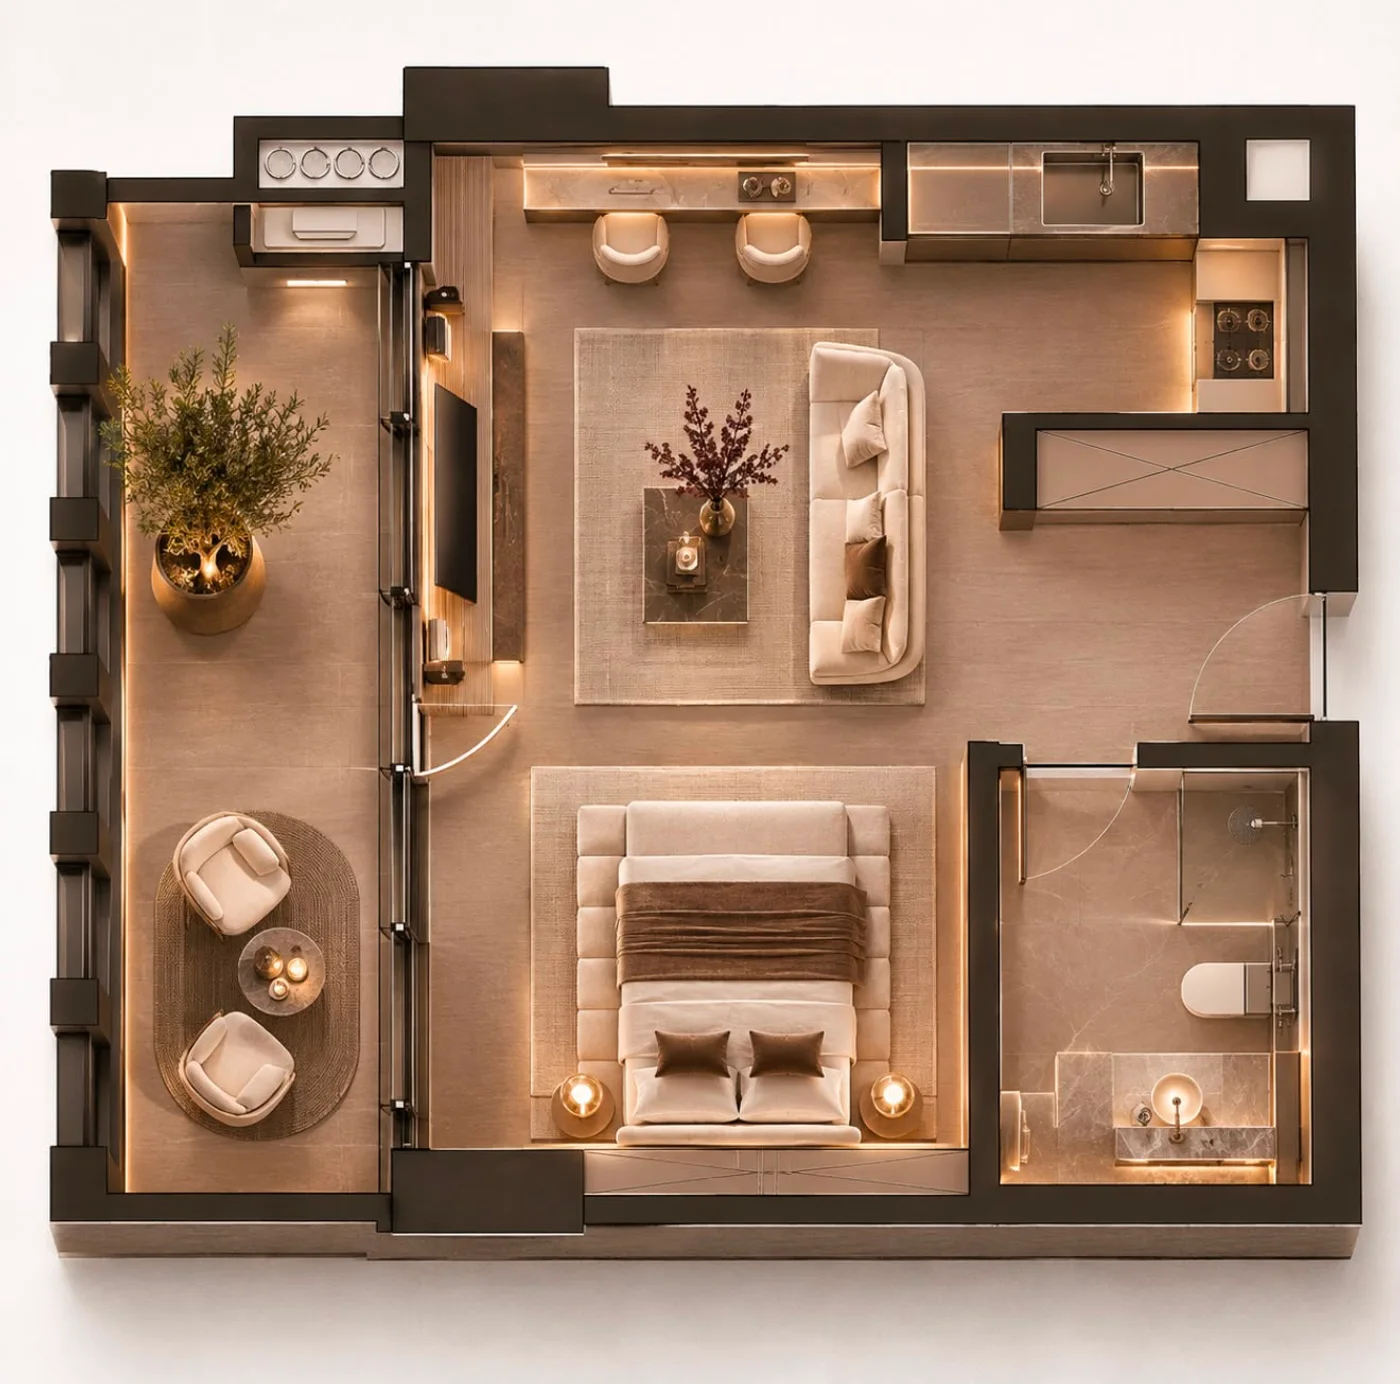
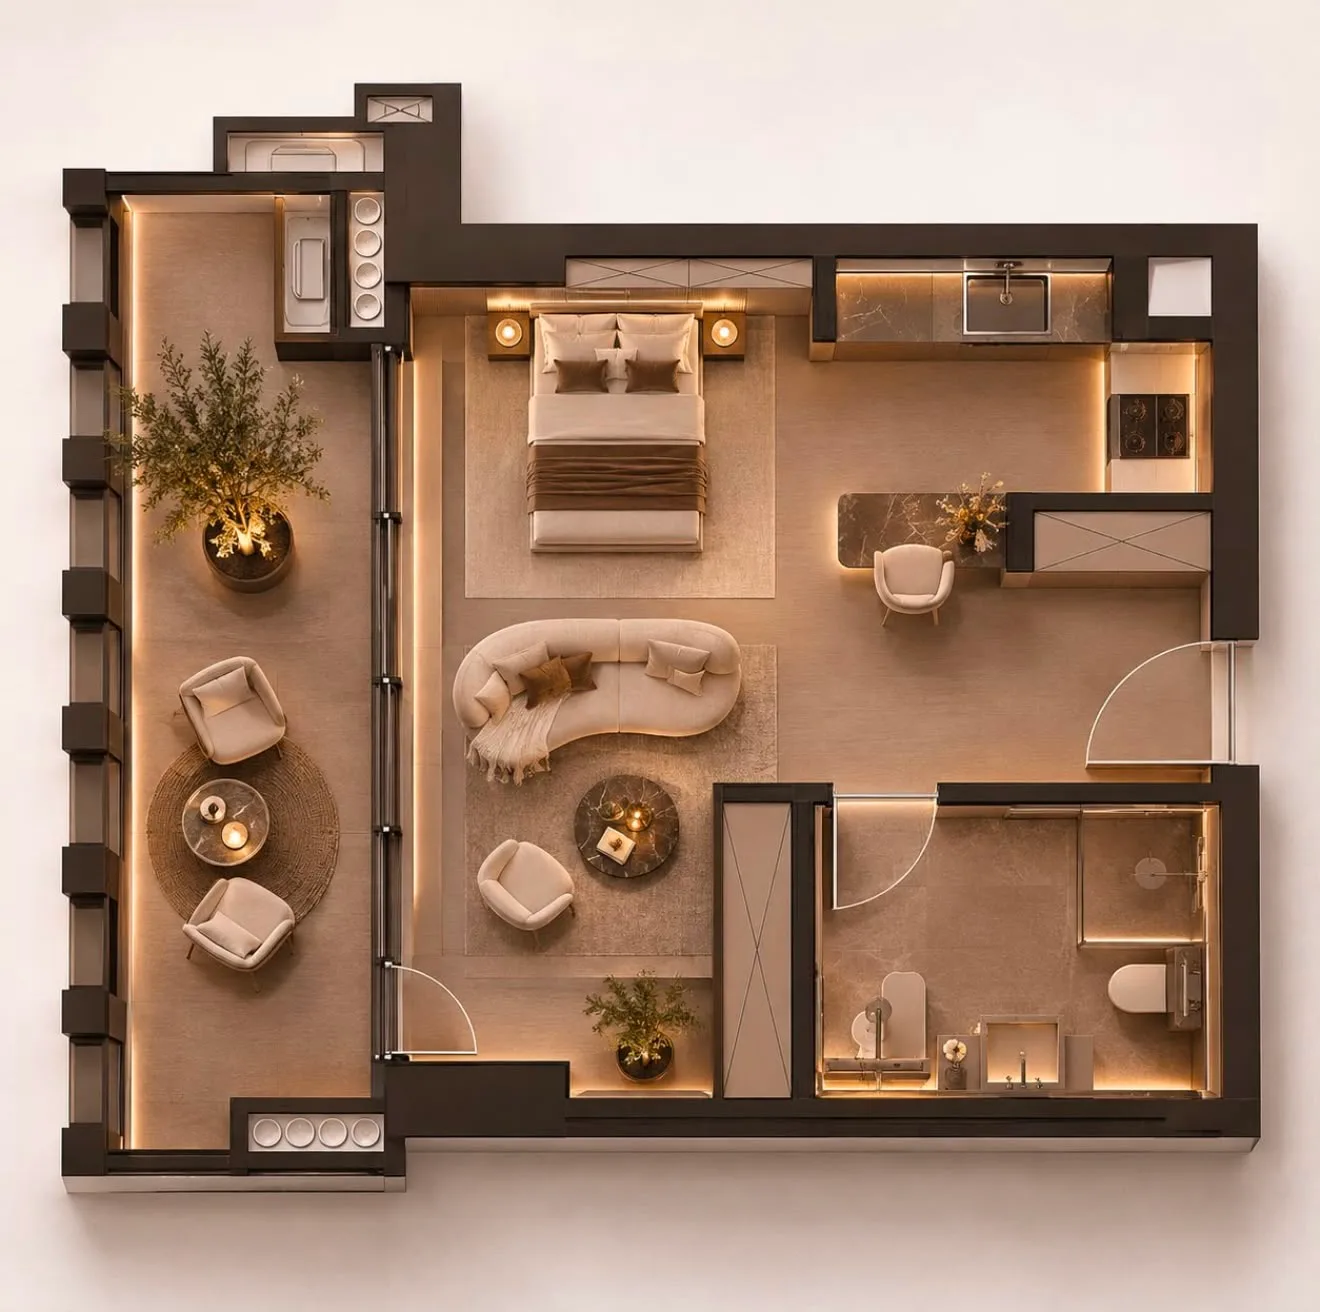
3D для A_4-7_4/5/6 по чертежам 4–7 этажей

diff --git a/data/apartments.ts b/data/apartments.ts
@@ -39,7 +39,7 @@ export interface ApartmentGeo {
 export interface FloorPlan { floor: number; image: string; width: number; height: number; units: ApartmentGeo[]; }
 
 /** Поднимать при замене любой подложки — иначе браузеры отдают старую из кэша. */
-export const PLAN_ASSET_VERSION = "16";
+export const PLAN_ASSET_VERSION = "17";
 export const withVersion = (src: string) => `${src}?v=${PLAN_ASSET_VERSION}`;
 
 /** Чертежи, к которым уже есть 3D. Новый рендер — дописать ключ сюда и положить файл в /images/plan3d. */
